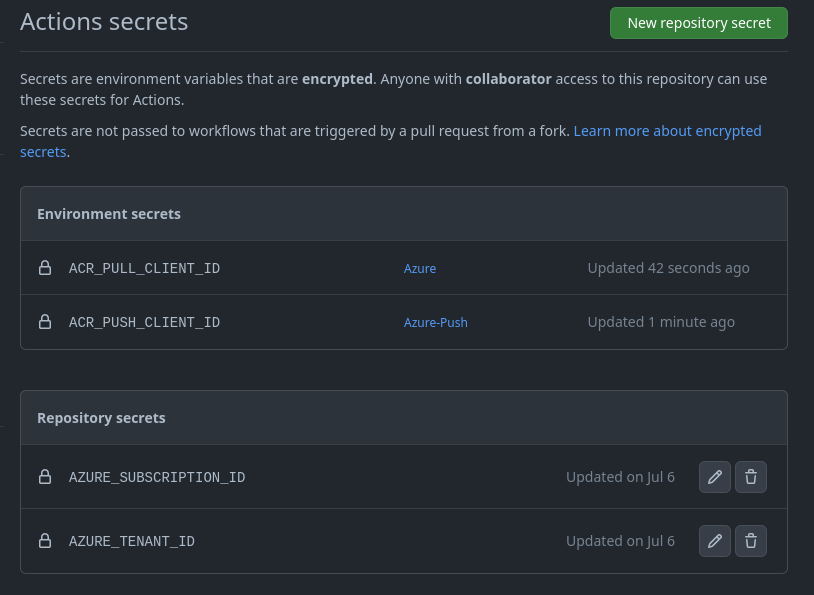
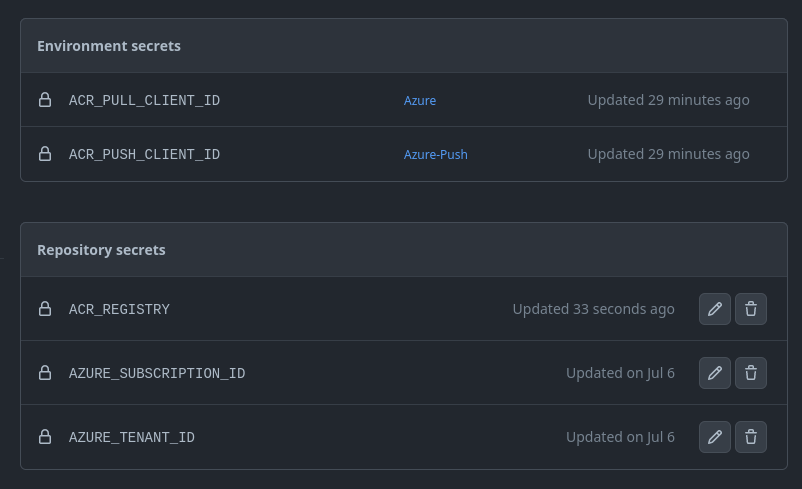
fix: use registry value

diff --git a/1-registry/README.md b/1-registry/README.md
@@ -68,16 +68,10 @@ Open the file and set the correct registry value:
 }
 ```
 
-4. Add the registry value to the [publish workflow](../.github/workflows/bicep-publish.yml):
-
-```pwsh
-$Registry = 'brmxe923.azurecr.io', # Change this value
-```
-
 5. Commit and push the changes:
 
 ```bash
-git add bicepconfig.json .github/
+git add bicepconfig.json
 git commit -m "fix: update registry value"
 git push
 ```
@@ -143,17 +137,19 @@ New-AzADAppFederatedCredential -ApplicationObjectId $appPull.Id `
 
 3. Add secrets to Github repo
 
-Even though we're not adding client secrets to our GitHub repository we still need to add some repository secrets that tell GitHub Actions which service principal, subscription and tenant to use.
+Even though we're not adding client secrets to our GitHub repository we still need to add some repository secrets that tell GitHub Actions which registry, service principal, subscription and tenant to use.
 
 If you have the [GitHub CLI](https://cli.github.com/manual/) installed you can do this step from the command line. If you do not have it you can [add the secrets manually](https://docs.microsoft.com/en-us/azure/developer/github/connect-from-azure?tabs=azure-powershell%2Clinux#create-github-secrets) in the browser.
 
 ```powershell
+$registryUrl = $registry.LoginServer
 $pushClientId = $appPush.AppId
 $pullClientId = $appPull.AppId
 $subscriptionId = (Get-AzContext).Subscription.Id
 $tenantId = (Get-AzContext).Subscription.TenantId
 
 # Continue if you have GitHub CLI
+gh secret set ACR_REGISTRY --body "$registryUrl"
 gh secret set AZURE_TENANT_ID --body "$tenantId"
 gh secret set AZURE_SUBSCRIPTION_ID --body "$subscriptionId"
 gh secret set ACR_PUSH_CLIENT_ID --body "$pushClientId" --env Azure-Push
